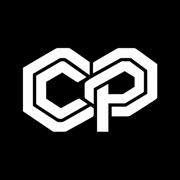
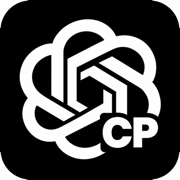
更新 CP 标识为黑底白色编织图案

diff --git a/public/index.html b/public/index.html
@@ -7,7 +7,7 @@
   <meta name="theme-color" content="#f7f8f5">
   <meta name="apple-mobile-web-app-capable" content="yes">
   <link rel="manifest" crossorigin="use-credentials" href="/manifest.webmanifest">
-  <link rel="icon" type="image/png" sizes="64x64" href="/icon-cp-64.png?v=3"><link rel="apple-touch-icon" sizes="180x180" href="/icon-cp-180.png?v=3">
+  <link rel="icon" type="image/png" sizes="64x64" href="/icon-cp-64.png?v=4"><link rel="apple-touch-icon" sizes="180x180" href="/icon-cp-180.png?v=4">
   <title>Codex Portal</title>
   <link rel="stylesheet" href="/styles.css"><link rel="stylesheet" href="/new-chat.css">
   <link rel="modulepreload" href="/app.js">
@@ -26,7 +26,7 @@
 <body class="startup-pending">
   <svg class="icon-defs" xmlns="http://www.w3.org/2000/svg" aria-hidden="true"><defs>
     <symbol id="i-question" viewBox="0 0 24 24"><path d="M21 11.5a8.5 8.5 0 0 1-8.5 8.5H4l-2 2v-10.5a9.5 9.5 0 0 1 19 0Z"/><path d="M9 8a3 3 0 0 1 6 0c0 2-3 2-3 4m0 3v.1"/></symbol>
-    <symbol id="i-mark" viewBox="0 0 64 64"><image width="64" height="64" href="/icon-cp-192.png?v=3"/></symbol>
+    <symbol id="i-mark" viewBox="0 0 64 64"><image width="64" height="64" href="/icon-cp-192.png?v=4"/></symbol>
     <symbol id="i-mic" viewBox="0 0 24 24"><rect x="9" y="2" width="6" height="12" rx="3"/><path d="M5 10v2a7 7 0 0 0 14 0v-2M12 19v3m-4 0h8"/></symbol>
     <symbol id="i-plus" viewBox="0 0 24 24"><path d="M12 5v14M5 12h14"/></symbol>
     <symbol id="i-search" viewBox="0 0 24 24"><circle cx="10.5" cy="10.5" r="6.5"/><path d="m16 16 4.5 4.5"/></symbol>
